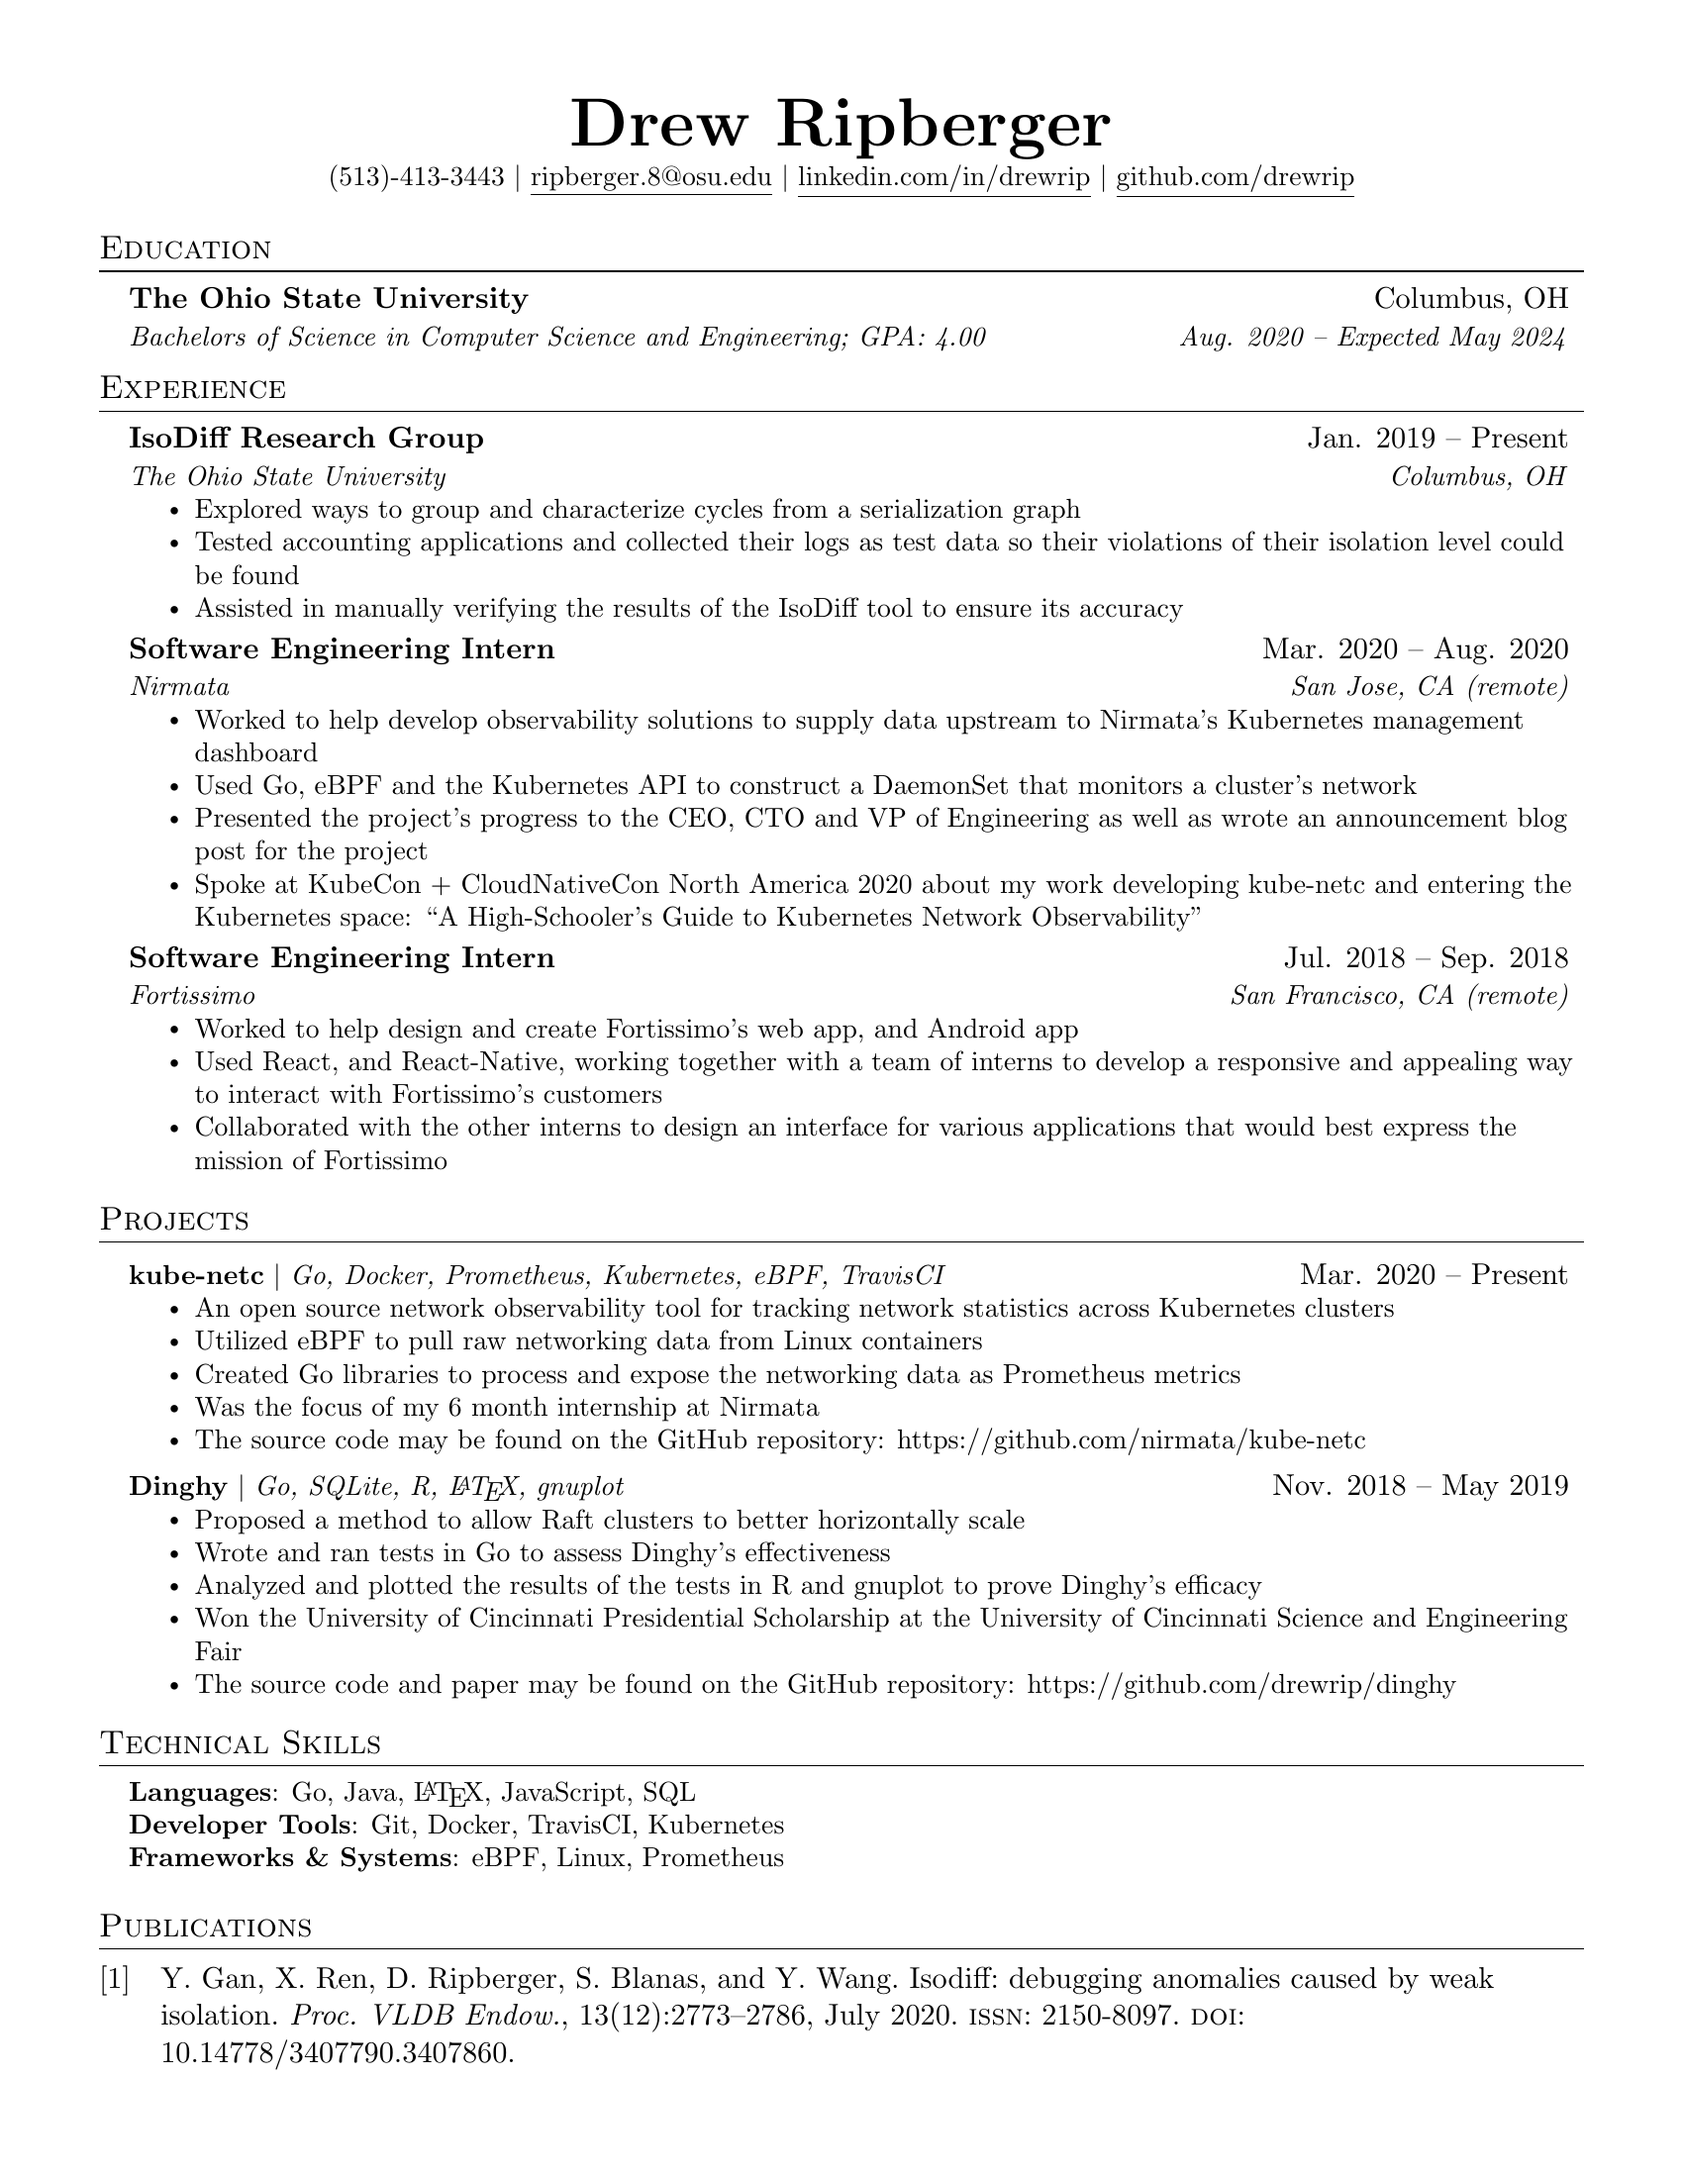
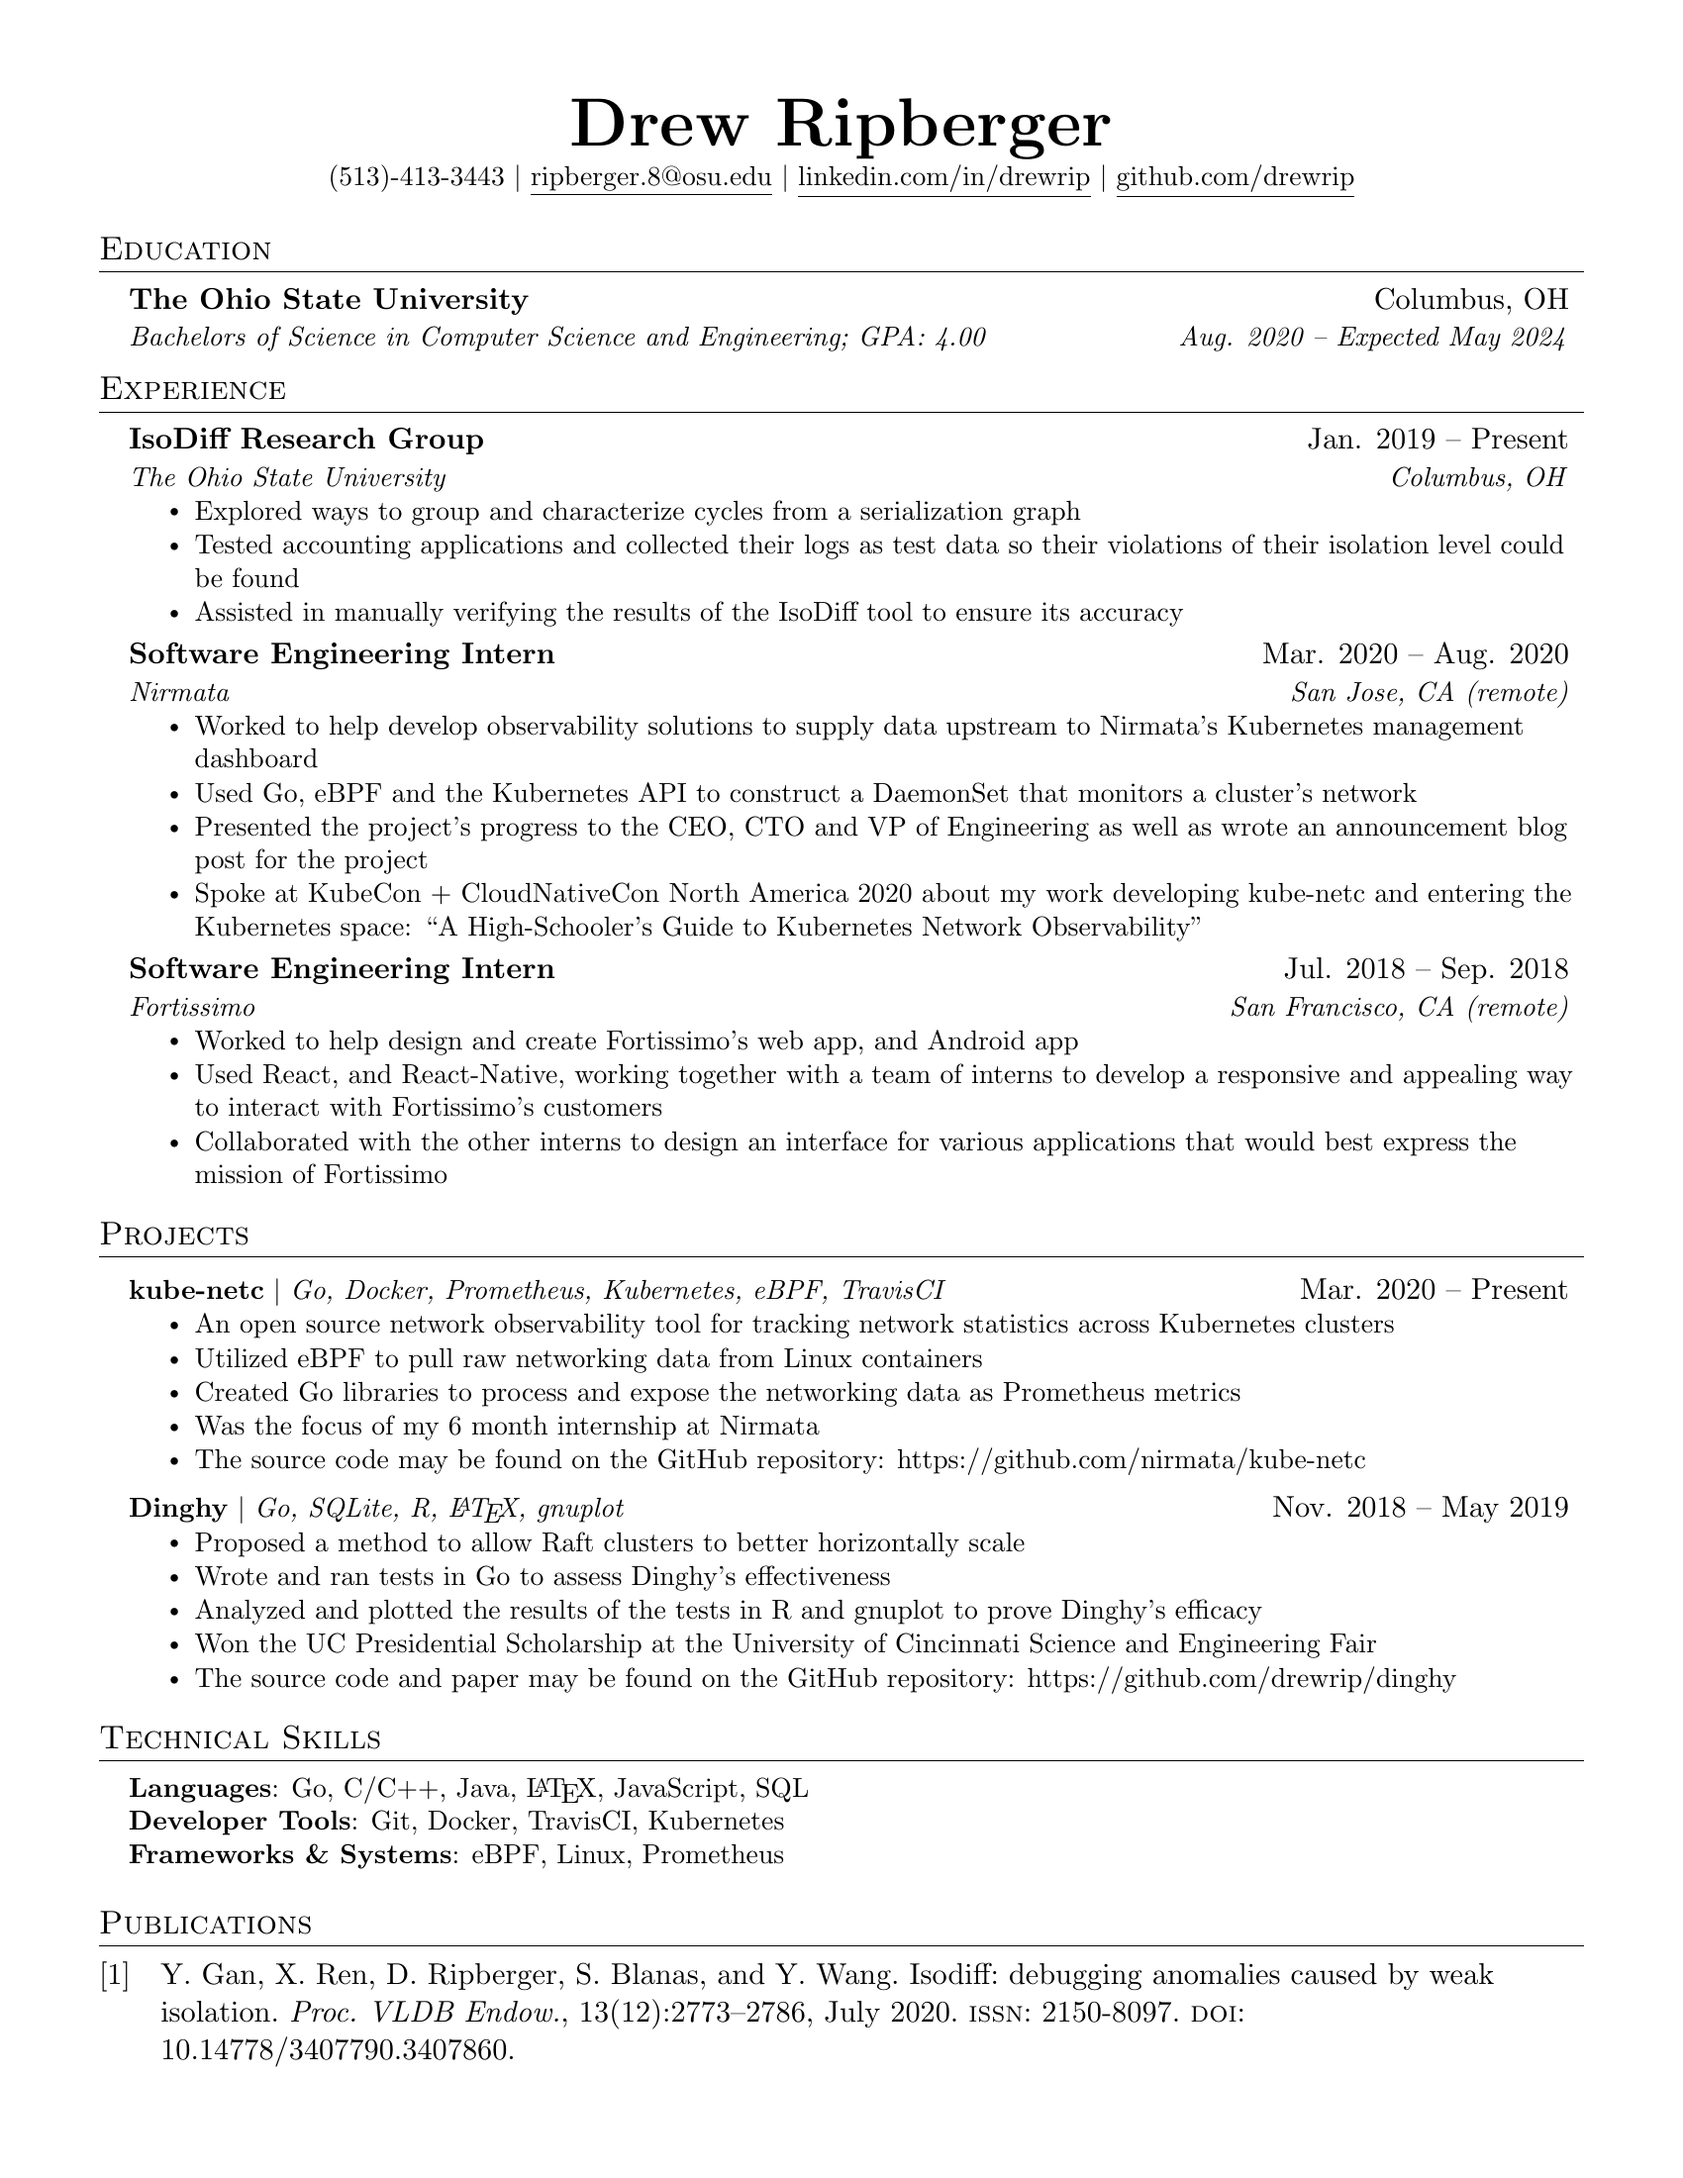
added C/C++ & fixed 2nd page overflow and makefile

diff --git a/resume.tex b/resume.tex
@@ -177,7 +177,7 @@
             \resumeItem{Proposed a method to allow Raft clusters to better horizontally scale}
             \resumeItem{Wrote and ran tests in Go to assess Dinghy's effectiveness}
             \resumeItem{Analyzed and plotted the results of the tests in R and gnuplot to prove Dinghy's efficacy}
-            \resumeItem{Won the University of Cincinnati Presidential Scholarship at the University of Cincinnati Science and Engineering Fair}
+            \resumeItem{Won the UC Presidential Scholarship at the University of Cincinnati Science and Engineering Fair}
             \resumeItem{The source code and paper may be found on the GitHub repository: https://github.com/drewrip/dinghy}
           \resumeItemListEnd
     \resumeSubHeadingListEnd
@@ -189,7 +189,7 @@
 \section{Technical Skills}
  \begin{itemize}[leftmargin=0.15in, label={}]
     \small{\item{
-     \textbf{Languages}{: Go, Java, \LaTeX, JavaScript, SQL} \\
+     \textbf{Languages}{: Go, C/C++, Java, \LaTeX, JavaScript, SQL} \\
      \textbf{Developer Tools}{: Git, Docker, TravisCI, Kubernetes} \\
      \textbf{Frameworks \& Systems}{: eBPF, Linux, Prometheus} \\
     }}
